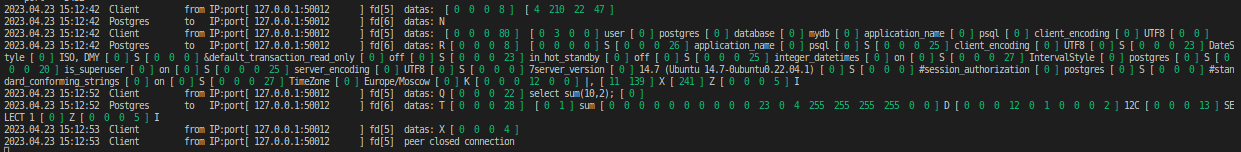
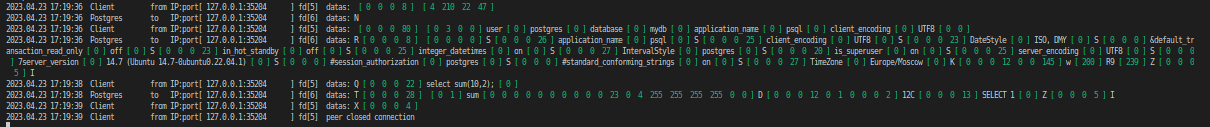
[ADDED] content to readme, [MOD] brackets color

diff --git a/src/Client.cpp b/src/Client.cpp
@@ -231,7 +231,7 @@ Client::logBlind(int fd, std::string &str, bool isClosed) {
         ++id_pos;
     }
     for (int i = 1; (i + id_pos) < 3 && it != str.cend(); ++i) {
-        *g_ofs_log << " [" << g_color;
+        *g_ofs_log << g_color << " [";
         for (unsigned char c = *it; it != str.cend() && it != str.cbegin() + 4 * i + id_pos; ++it, c = *it) {
             *g_ofs_log << " " << (unsigned int)c << " ";
         }
@@ -240,7 +240,7 @@ Client::logBlind(int fd, std::string &str, bool isClosed) {
 
     for (unsigned char c = *it; it != str.cend(); ++it, c = *it) {
         if (!isprint(c)) {
-            *g_ofs_log << " [" << g_color;
+            *g_ofs_log << g_color << " [";
             for (; !isprint(c) && it != str.cend(); ++it, c = *it)
                 *g_ofs_log << " " << (unsigned int)c << " ";
             *g_ofs_log << "] " << g_color_end;

diff --git a/README.md b/README.md
@@ -1,6 +1,18 @@
 # TCP прокси-сервер для СУБД Postgresql (на C++)
 ## (ОС `Linux`)
 
+<a name="content"></a> 
+
+# Содержание
+[Сборка](#make) \
+[Запуск](#run) \
+[Логирование запросов](#logs) \
+[Тестирование прокси сервера](#tests) \
+[Полезные ссылки](#links)
+
+<a name="make"></a> 
+
+# Сборка
 TCP прокси-сервер для СУБД Postgresql с возможностью логирования всех SQL запросов, проходящих через него. 
 
 В прокси-сервере использован Berkley socket (epoll).
@@ -11,6 +23,10 @@ TCP прокси-сервер для СУБД Postgresql с возможност
 ```sh
 make
 ```
+###### [вернуться к содержанию](#content)
+<a name="run"></a> 
+
+# Запуск
 Прокси работает на порту `8080`.
 
 Для запуска сервера можно выбрать хост (IPv4) и порт, передав их аргументами при запуске сервера. Порядок аргументов значения не имеет.Если какой-то из параметров не передан, будут использованы значения по умолчанию: `хост 127.0.0.1`, `порт 5432`. \
@@ -35,6 +51,8 @@ make
 # Выбрать порт и хост
 ./TCPserv p3456 h127.0.0.1
 ```
+###### [вернуться к содержанию](#content)
+<a name="logs"></a> 
 
 # Логирование запросов
 
@@ -76,7 +94,7 @@ output: 0
 ```
 В конфигурационном файле допускаются комментарии и пустые строки.
 Строки, которые начинаются с решетки `#` являются комментариями.
-Посторонние символы и несуществующие параметры делают конфигурационный файл недействительнымю
+Посторонние символы и несуществующие параметры делают конфигурационный файл недействительным.
 
 Параметр конфигурации состоит из именованного поля (например, `deep logs`), двоеточия `:`, обязательного одного пробела ` ` и числового значения параметра (например, `1`).
 
@@ -112,6 +130,8 @@ output: 0
 
 ![stdoutput_logs](./README/logs.png)
 
+###### [вернуться к содержанию](#content)
+<a name="tests"></a> 
 
 # Тестирование прокси сервера
 
@@ -157,10 +177,16 @@ psql -U postgres -h 127.0.0.1 -p 8080 -d mydb
 
 Тестирование с помощью `pgbench`:
 ```sh
-pgbench -c 16 -j 16 -T 300 -r -n --host=localhost --port=8080 -b tpcb-like
+pgbench -i mydb
+pgbench -U postgres -c 16 -j 16 -T 300 -r -n --host=localhost --port=8080 -b tpcb-like mydb
 ```
+###### [вернуться к содержанию](#content)
+<a name="links"></a> 
+
 # Полезные ссылки:
 
 [SQL. Клиент-серверный протокол](https://postgrespro.ru/docs/postgresql/14/protocol)
 
 [SQL. Форматы сообщений](https://postgrespro.ru/docs/postgresql/14/protocol-message-formats)
+
+###### [вернуться к содержанию](#content)
